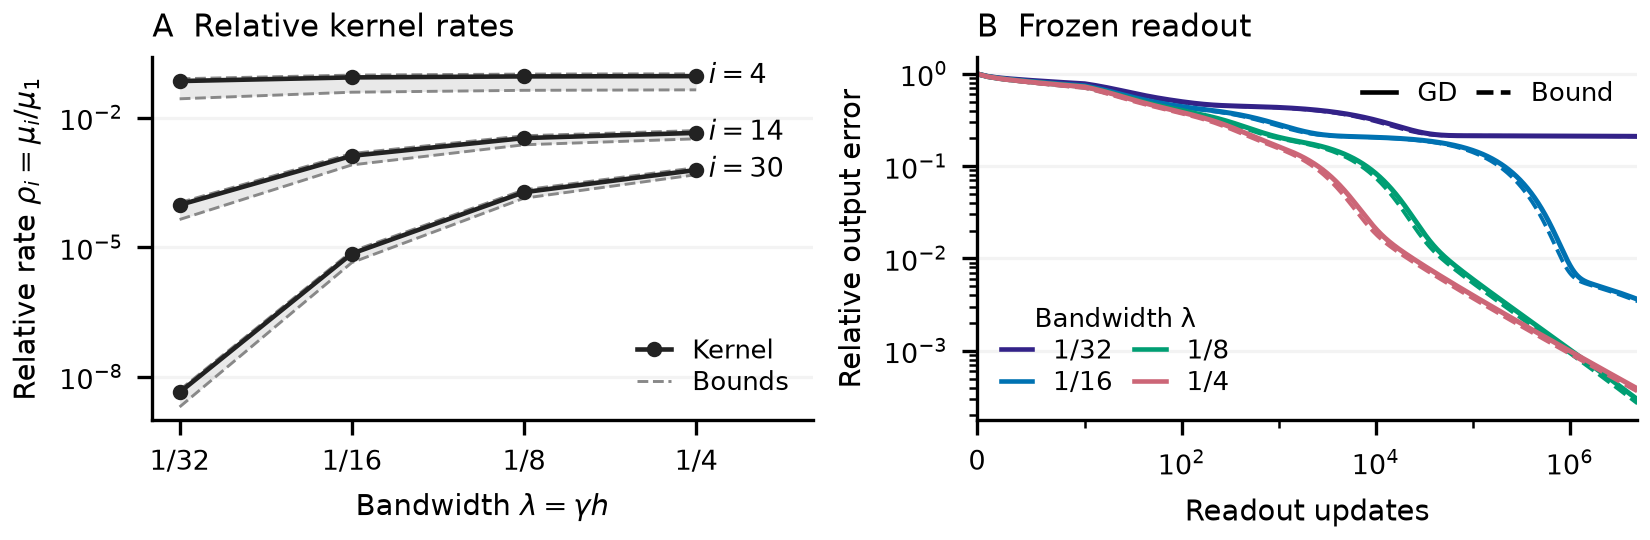
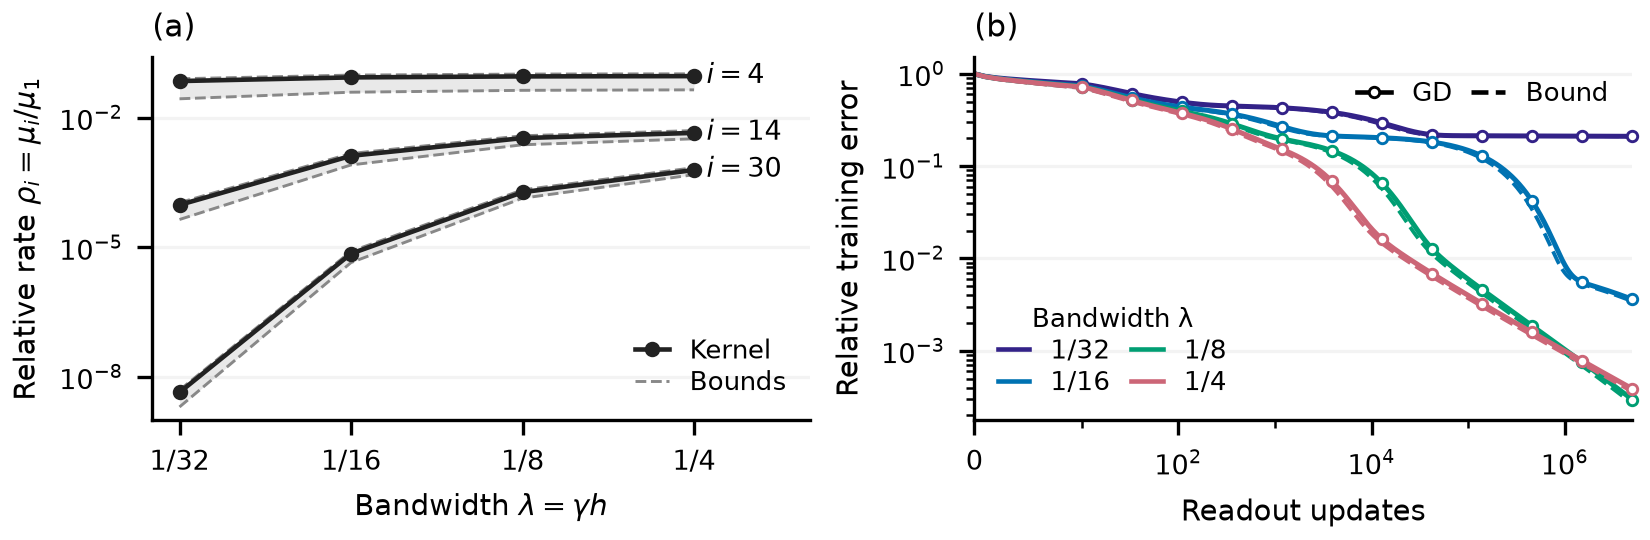
Clarify executed GD and spectral figure annotations

diff --git a/experiments/expD36_frozen_gamma_probe/section34_paired_figures.py b/experiments/expD36_frozen_gamma_probe/section34_paired_figures.py
@@ -80,28 +80,32 @@ def main():
     axes[0].set_yticks([1e-8, 1e-5, 1e-2])
     axes[0].set_xlabel(r'Bandwidth $\lambda=\gamma h$')
     axes[0].set_ylabel(r'Relative rate $\rho_i=\mu_i/\mu_1$')
-    axes[0].set_title('A  Relative kernel rates', loc='left', pad=5)
+    axes[0].set_title('(a)', loc='left', pad=5)
     axes[0].legend(handles=[Line2D([], [], color='#222222', marker='o', ms=2.7, label='Kernel'),
                             Line2D([], [], color='#888888', ls='--', lw=.7, label='Bounds')],
                    loc='lower right', handlelength=1.3, labelspacing=.2)
 
+    marker_steps = np.unique(np.rint(np.geomspace(10, horizon, 12)).astype(int))
     for i, (bandwidth, color, bound) in enumerate(zip(bandwidths, palette, bounds)):
         axes[1].plot(indices, actual[indices, i], color=color, lw=1.2)
         axes[1].plot(bound['steps'], bound['lower_error'], color=color, ls='--', lw=.9)
+        axes[1].plot(marker_steps, actual[marker_steps, i], color=color, ls='none',
+                     marker='o', ms=2.5, mfc='white', mew=.7, clip_on=False)
     bandwidth_legend = axes[1].legend(handles=[Line2D([], [], color=c, label=label)
         for c, label in zip(palette, ['1/32', '1/16', '1/8', '1/4'])],
         title='Bandwidth λ', title_fontsize=6.3, loc='lower left', ncol=2,
         handlelength=1.2, columnspacing=.8, labelspacing=.2)
     axes[1].add_artist(bandwidth_legend)
-    axes[1].legend(handles=[Line2D([], [], color='black', label='GD'),
+    axes[1].legend(handles=[Line2D([], [], color='black', marker='o', ms=2.5,
+                                   mfc='white', mew=.7, label='GD'),
                             Line2D([], [], color='black', ls='--', label='Bound')],
                    loc='upper right', ncol=2, handlelength=1.3, columnspacing=.7)
     axes[1].set_xscale('symlog', linthresh=10)
     axes[1].set_xlim(0, horizon)
     axes[1].set_xticks([0, 100, 10000, 1000000], ['0', '$10^2$', '$10^4$', '$10^6$'])
     axes[1].set_xlabel('Readout updates')
-    axes[1].set_ylabel('Relative output error')
-    axes[1].set_title('B  Frozen readout', loc='left', pad=5)
+    axes[1].set_ylabel('Relative training error')
+    axes[1].set_title('(b)', loc='left', pad=5)
 
     for optimizer in summary['selected']:
         color = {'adam': '#0072B2', 'gd': '#D55E00'}[optimizer]
@@ -158,8 +162,12 @@ def main():
     (args.output/'provenance.json').write_text(json.dumps(dict(
         figure_size_inches=[5.5, 1.8], horizon=horizon, sources=fingerprints,
         spectral_rows=rows, bandwidths=bandwidths, frozen_adam_selection=selected,
+        selected_target_energy=np.sum([row['target_weights'] for row in rows], axis=0).tolist(),
+        gd_marker_steps=marker_steps.tolist(),
         display='Same executed curves and extrema-preserving display reduction as section34_figure.py; '
-                'spectrum uses saved theorem intervals, with ordered ranks recomputed at each bandwidth.'),
+                'spectrum uses saved theorem intervals, with ordered ranks recomputed at each bandwidth. '
+                'Hollow markers identify executed GD at 12 log-spaced updates; bounds use every '
+                'resolved target projection, not only the three ranks displayed in the spectral panel.'),
         indent=2) + '\n')
     print(json.dumps(dict(figure_size_inches=[5.5, 1.8], checked_spectral_intervals=12,
                           frozen_adam_recipe=selected['recipe_index'], horizon=horizon)))
